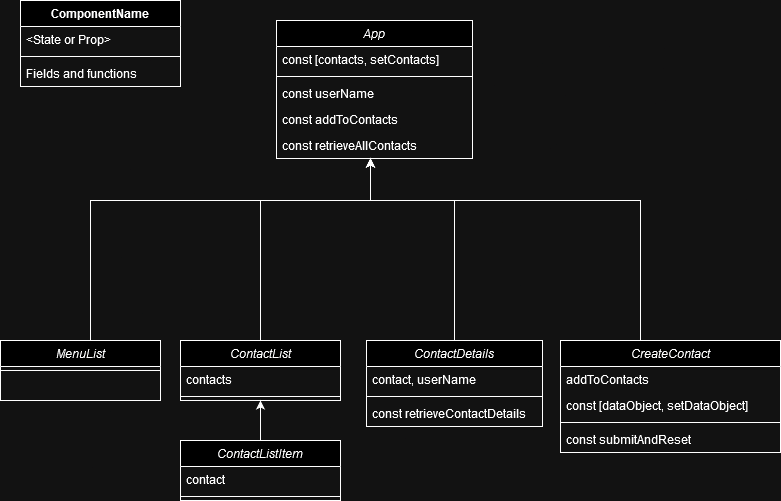
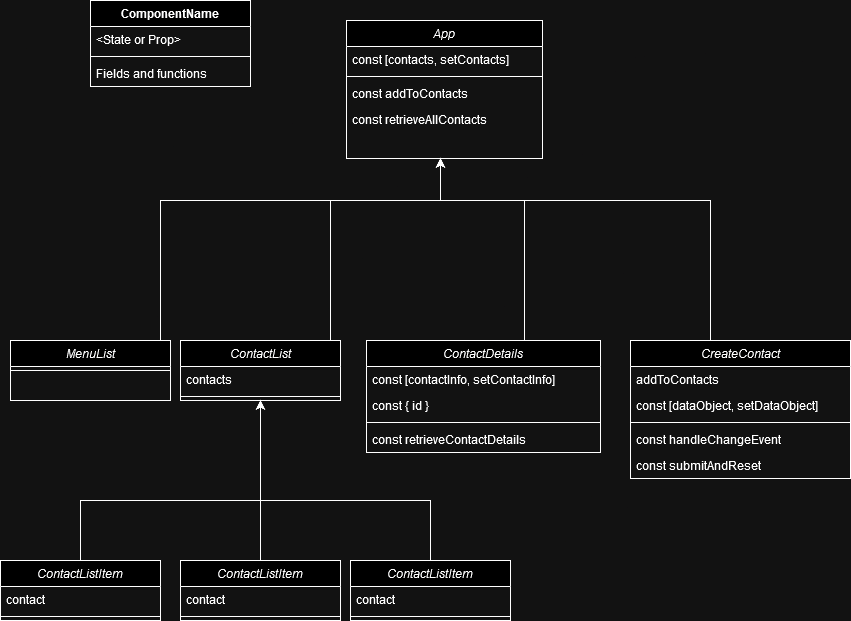
Updated state model and component tree

diff --git a/Address_book_state_model.md b/Address_book_state_model.md
@@ -1,8 +1,14 @@
 # States used in various components
+
 ## App
 
 Constacts will be its own state, along with its associated setter, which will keep track of all contacts of the current user as a Array of contact objects.
+Adding new contacts will first post the new contact to the backend, then refetch the entire contacts state to ensure client-server synchronicity.
 
 ## CreateContact
 
 dataObject, along with its associated setter, will gather all form data in a single object so make the adding of new contacts easy. dataObject will also be used as the direct field values, ensuring each field is a controlled object. Each field in the form will have its own associated value in the dataObject, this will mirror the data available in the API to minimize processing on submit of the forms.
+
+## ContactDetails
+
+ContactDetails will contain its own state, contact and setContact, that keeps the data related to a specific individual on the contact list. This data will be fetched in the component, based on the :id param in the url, which is extracted and added to the fetch query.
